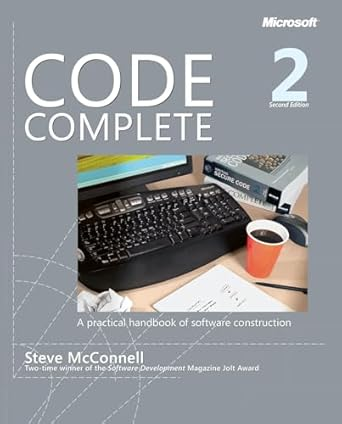
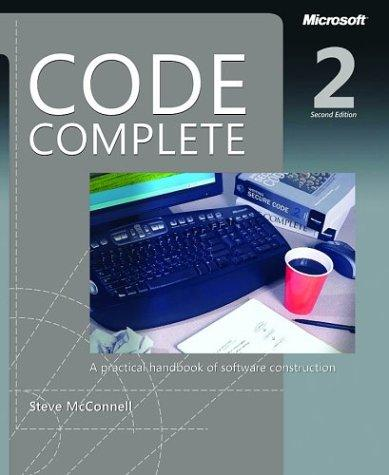
Re-routed home page description buttons, changed some cover images.

diff --git a/src/views/HomePage.vue b/src/views/HomePage.vue
@@ -46,126 +46,126 @@ export default {
           id: 1,
           title: 'Introduction to Algorithms',
           imageSrc: '/images/1.jpg',
-          description: 'This comprehensive textbook provides a deep and rigorous introduction to the modern study of computer algorithms. It covers a broad range of algorithms in depth while keeping their design and analysis accessible to readers at all levels.',
+          description: 'OL4781294W',
           price: priceRandom()
         },
         {
           id: 2,
           title: 'The Art of Computer Programming',
           imageSrc: '/images/2.jpg',
-          description: 'Considered a classic and monumental work, this series offers a comprehensive and highly detailed exploration of algorithms, data structures, and fundamental programming concepts. It is known for its breadth, clarity, and elegance.',
+          description: 'OL257263W',
           price: priceRandom()
         },
         {
           id: 3,
           title: 'Code: The Hidden Language of Computer Hardware and Software',
           imageSrc: '/images/3.jpg',
-          description: 'This book demystifies how computers work, starting with simple concepts like Morse code and electricity and building up, layer by layer, to explain the inner workings of digital machines, software, and the internet.',
+          description: 'OL1972516W',
           price: priceRandom()
         },
         {
           id: 4,
           title: 'Structure and Interpretation of Computer Programs (SICP)',
           imageSrc: '/images/4.jpg',
-          description: 'A classic text that teaches fundamental principles of computation and programming through the Lisp-based Scheme programming language. The book emphasizes building abstract systems and has had a major impact on computer science curricula.',
+          description: 'OL3267304W',
           price: priceRandom()
         },
         {
           id: 5,
           title: 'Compilers: Principles, Techniques, and Tools',
           imageSrc: '/images/5.jpg',
-          description: 'Often referred to as "the Dragon Book," this is the standard reference for compiler design. It provides a thorough introduction to the design and implementation of compilers, covering everything from lexical analysis to code generation.',
+          description: 'OL3509433W',
           price: priceRandom()
         },
         {
           id: 6,
           title: 'Clean Code: A Handbook of Agile Software Craftsmanship',
           imageSrc: '/images/6.jpg',
-          description: 'This book provides practical advice and guidelines for writing more readable, maintainable, and robust code. It covers best practices for creating clean functions, objects, and classes and emphasizes the importance of writing clean, professional-level code.',
+          description: 'OL17618370W',
           price: priceRandom()
         },
         {
           id: 7,
           title: 'The Pragmatic Programmer: Your Journey to Mastery',
           imageSrc: '/images/7.jpg',
-          description: 'This book offers a wide range of advice on software development, covering topics from career development to software architecture. It emphasizes a mindful and practical approach to writing flexible, adaptable, and efficient code.',
+          description: 'OL5748544W',
           price: priceRandom()
         },
         {
           id: 8,
           title: 'Design Patterns: Elements of Reusable Object-Oriented Software',
           imageSrc: '/images/8.jpg',
-          description: 'This seminal work presents a catalog of 23 common design patterns that provide succinct solutions to frequently occurring problems in object-oriented software design. It helps developers create more elegant and reusable code.',
+          description: 'OL6030812W',
           price: priceRandom()
         },
         {
           id: 9,
           title: 'The Mythical Man-Month: Essays on Software Engineering',
           imageSrc: '/images/9.jpg',
-          description: 'This timeless book on software project management uses lessons from managing the IBM System/360 project to provide insights into the challenges and complexities of managing software projects, including the famous adage that "adding manpower to a late software project makes it later".',
+          description: 'OL3510570W',
           price: priceRandom()
         },
         {
           id: 10,
           title: 'Refactoring: Improving the Design of Existing Code',
           imageSrc: '/images/10.jpg',
-          description: 'This guide explains the process and importance of improving the design of an existing codebase without changing its external behavior. It provides a catalog of refactorings, showing how to recognize "bad smells" in code and rework them into a cleaner design.',
+          description: 'OL17820325W',
           price: priceRandom()
         },
         {
           id: 11,
           title: 'Code Complete: A Practical Handbook of Software Construction',
           imageSrc: '/images/11.jpg',
-          description: 'A practical guide to every aspect of software construction, this book provides a vast collection of tips, techniques, and best practices for writing high-quality software, from design and coding to debugging and maintenance.',
+          description: 'OL2722063W',
           price: priceRandom()
         },
         {
           id: 12,
           title: 'The C Programming Language',
           imageSrc: '/images/12.jpg',
-          description: 'Written by the creators of the C language, this is the definitive reference guide to C programming. It is a foundational book for understanding C and remains an essential resource for programmers.',
+          description: 'OL4617640W',
           price: priceRandom()
         },
         {
           id: 13,
           title: 'Effective Java',
           imageSrc: '/images/13.jpg',
-          description: 'This book provides best practices and valuable advice for programmers using the Java language. It offers solutions for creating clean, modern, and robust Java code and takes full advantage of the latest language features.',
+          description: 'OL6223299W',
           price: priceRandom()
         },
         {
           id: 14,
           title: 'Programming Pearls',
           imageSrc: '/images/14.jpg',
-          description: "A collection of problem-solving techniques and programming insights, this book is based on the author's popular column. It presents elegant and creative solutions to computer science problems and explores fundamental design principles.",
+          description: "OL4986385W",
           price: priceRandom()
         },
         {
           id: 15,
           title: 'The Little Schemer',
           imageSrc: '/images/15.jpg',
-          description: 'This book teaches the fundamental concepts of Lisp and functional programming in a unique and engaging question-and-answer format. It presents abstract concepts in a humorous and easy-to-grasp manner.',
+          description: 'OL2938928W',
           price: priceRandom()
         },
         {
           id: 16,
           title: 'Artificial Intelligence: A Modern Approach',
           imageSrc: '/images/16.jpg',
-          description: 'This is a leading textbook in the field of artificial intelligence. It offers a comprehensive and up-to-date introduction to AI theory and practice, covering everything from classical approaches to the latest advancements in machine learning.',
+          description: 'OL2896994W',
           price: priceRandom()
         },
         {
           id: 17,
           title: 'Deep Learning',
           imageSrc: '/images/17.jpg',
-          description: 'Written by experts in the field, this is a comprehensive and highly regarded textbook on deep learning. It covers the mathematical and conceptual foundations of deep learning and neural networks.',
+          description: 'OL17801809W',
           price: priceRandom()
         },
         {
           id: 18,
-          title: 'The Road to Conscious Machines: The Story of AI',
+          title: 'The Cognitive Approach to Conscious Machines',
           imageSrc: '/images/18.jpg',
-          description: 'This book provides a historical and philosophical look at the development of artificial intelligence. It separates the realistic advancements in AI from misplaced public fears and explains why our anxieties about conscious machines are premature.',
+          description: 'OL13607353W',
           price: priceRandom()
         }
       ]

diff --git a/src/componets/Cardcontainer.vue b/src/componets/Cardcontainer.vue
@@ -5,7 +5,7 @@
       <p id = "priceText"> ${{price}} </p> 
         <img v-if='imageSrc' :src="imageSrc" alt="Card Image" class="card-image"  />
         
-  <button @click="modalOpen = true"> Description </button>
+  <button @click="sendtoDesc(description)"> Description </button>
   <button id="addtocart" @click="ConfigureCart"> Add to Cart </button>
 
     <div class="modal" :class="{ open: modalOpen }">
@@ -24,9 +24,11 @@
 <script setup> //YOU ABSOLUTELY NEED THIS SETUP PART TO HAVE THE BOOKS IMPORTED INTO THE CONTAINER.
 import { ref, defineProps } from 'vue'; 
 import { useCart } from '@/componets/useCart';
+import { useRouter } from 'vue-router';
 import Description from './Description.vue';
 //const { useBookStore } = BooksApi();
 const { addToCart } = useCart(); //gets the function 
+const router = useRouter();
 
 const ConfigureCart = () => {
      addToCart({
@@ -35,6 +37,10 @@ const ConfigureCart = () => {
         description: props.description,
         price: props.price
     });
+}
+
+const sendtoDesc = (description) => {
+    router.push({name: 'desc', params: { workID: description }})
 }
 
 const modalOpen = ref(false);
